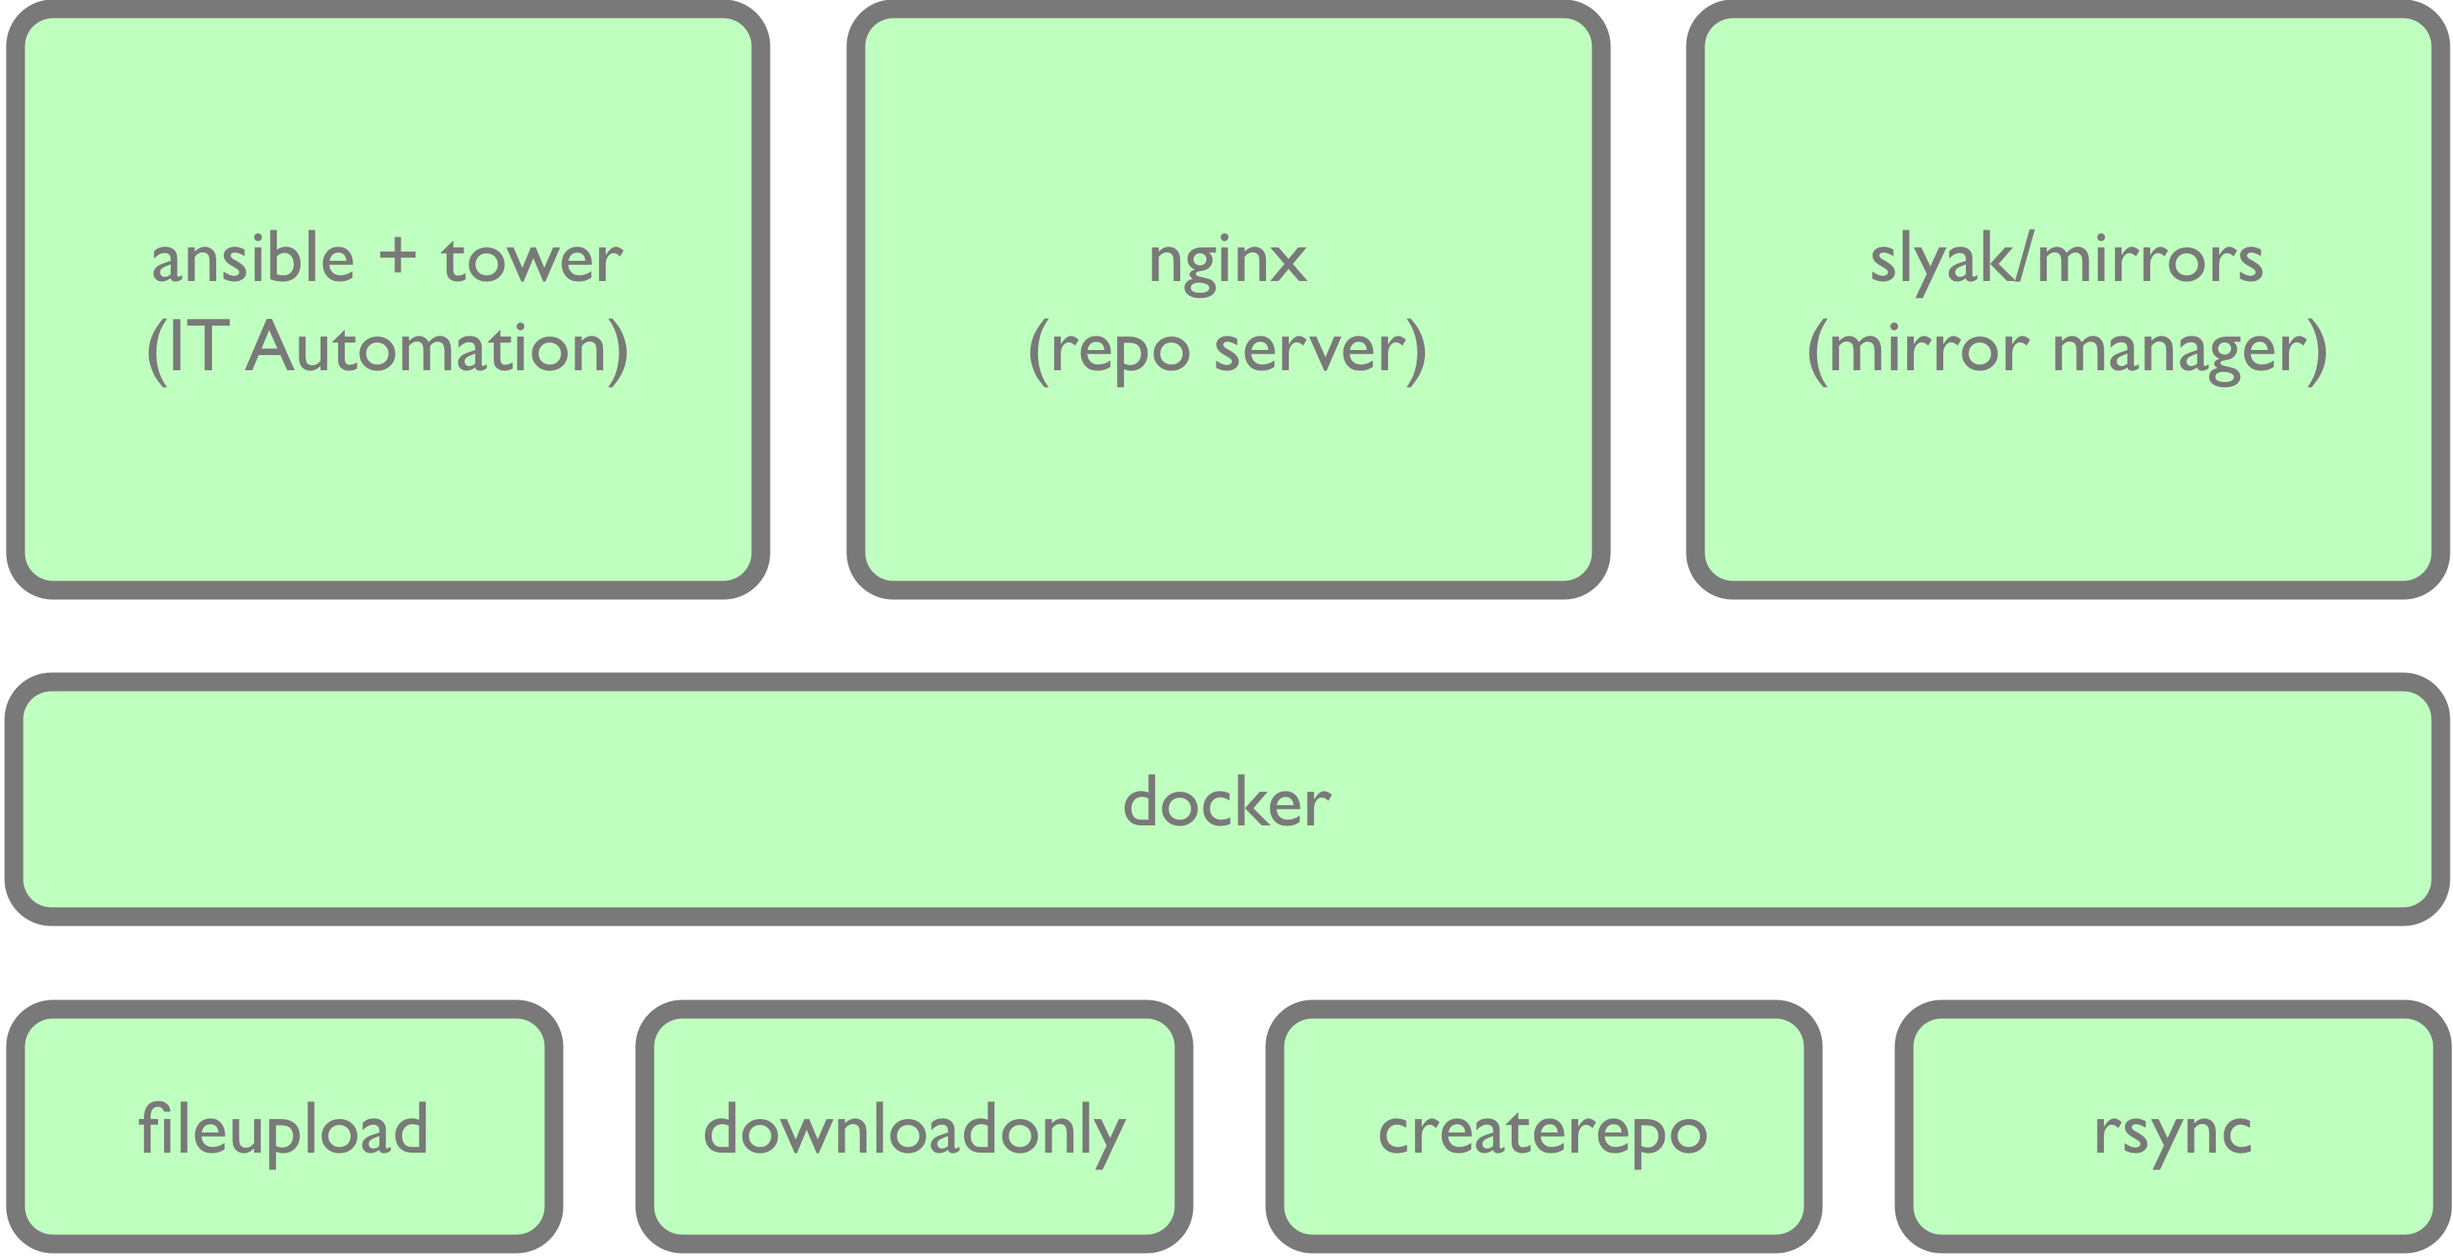
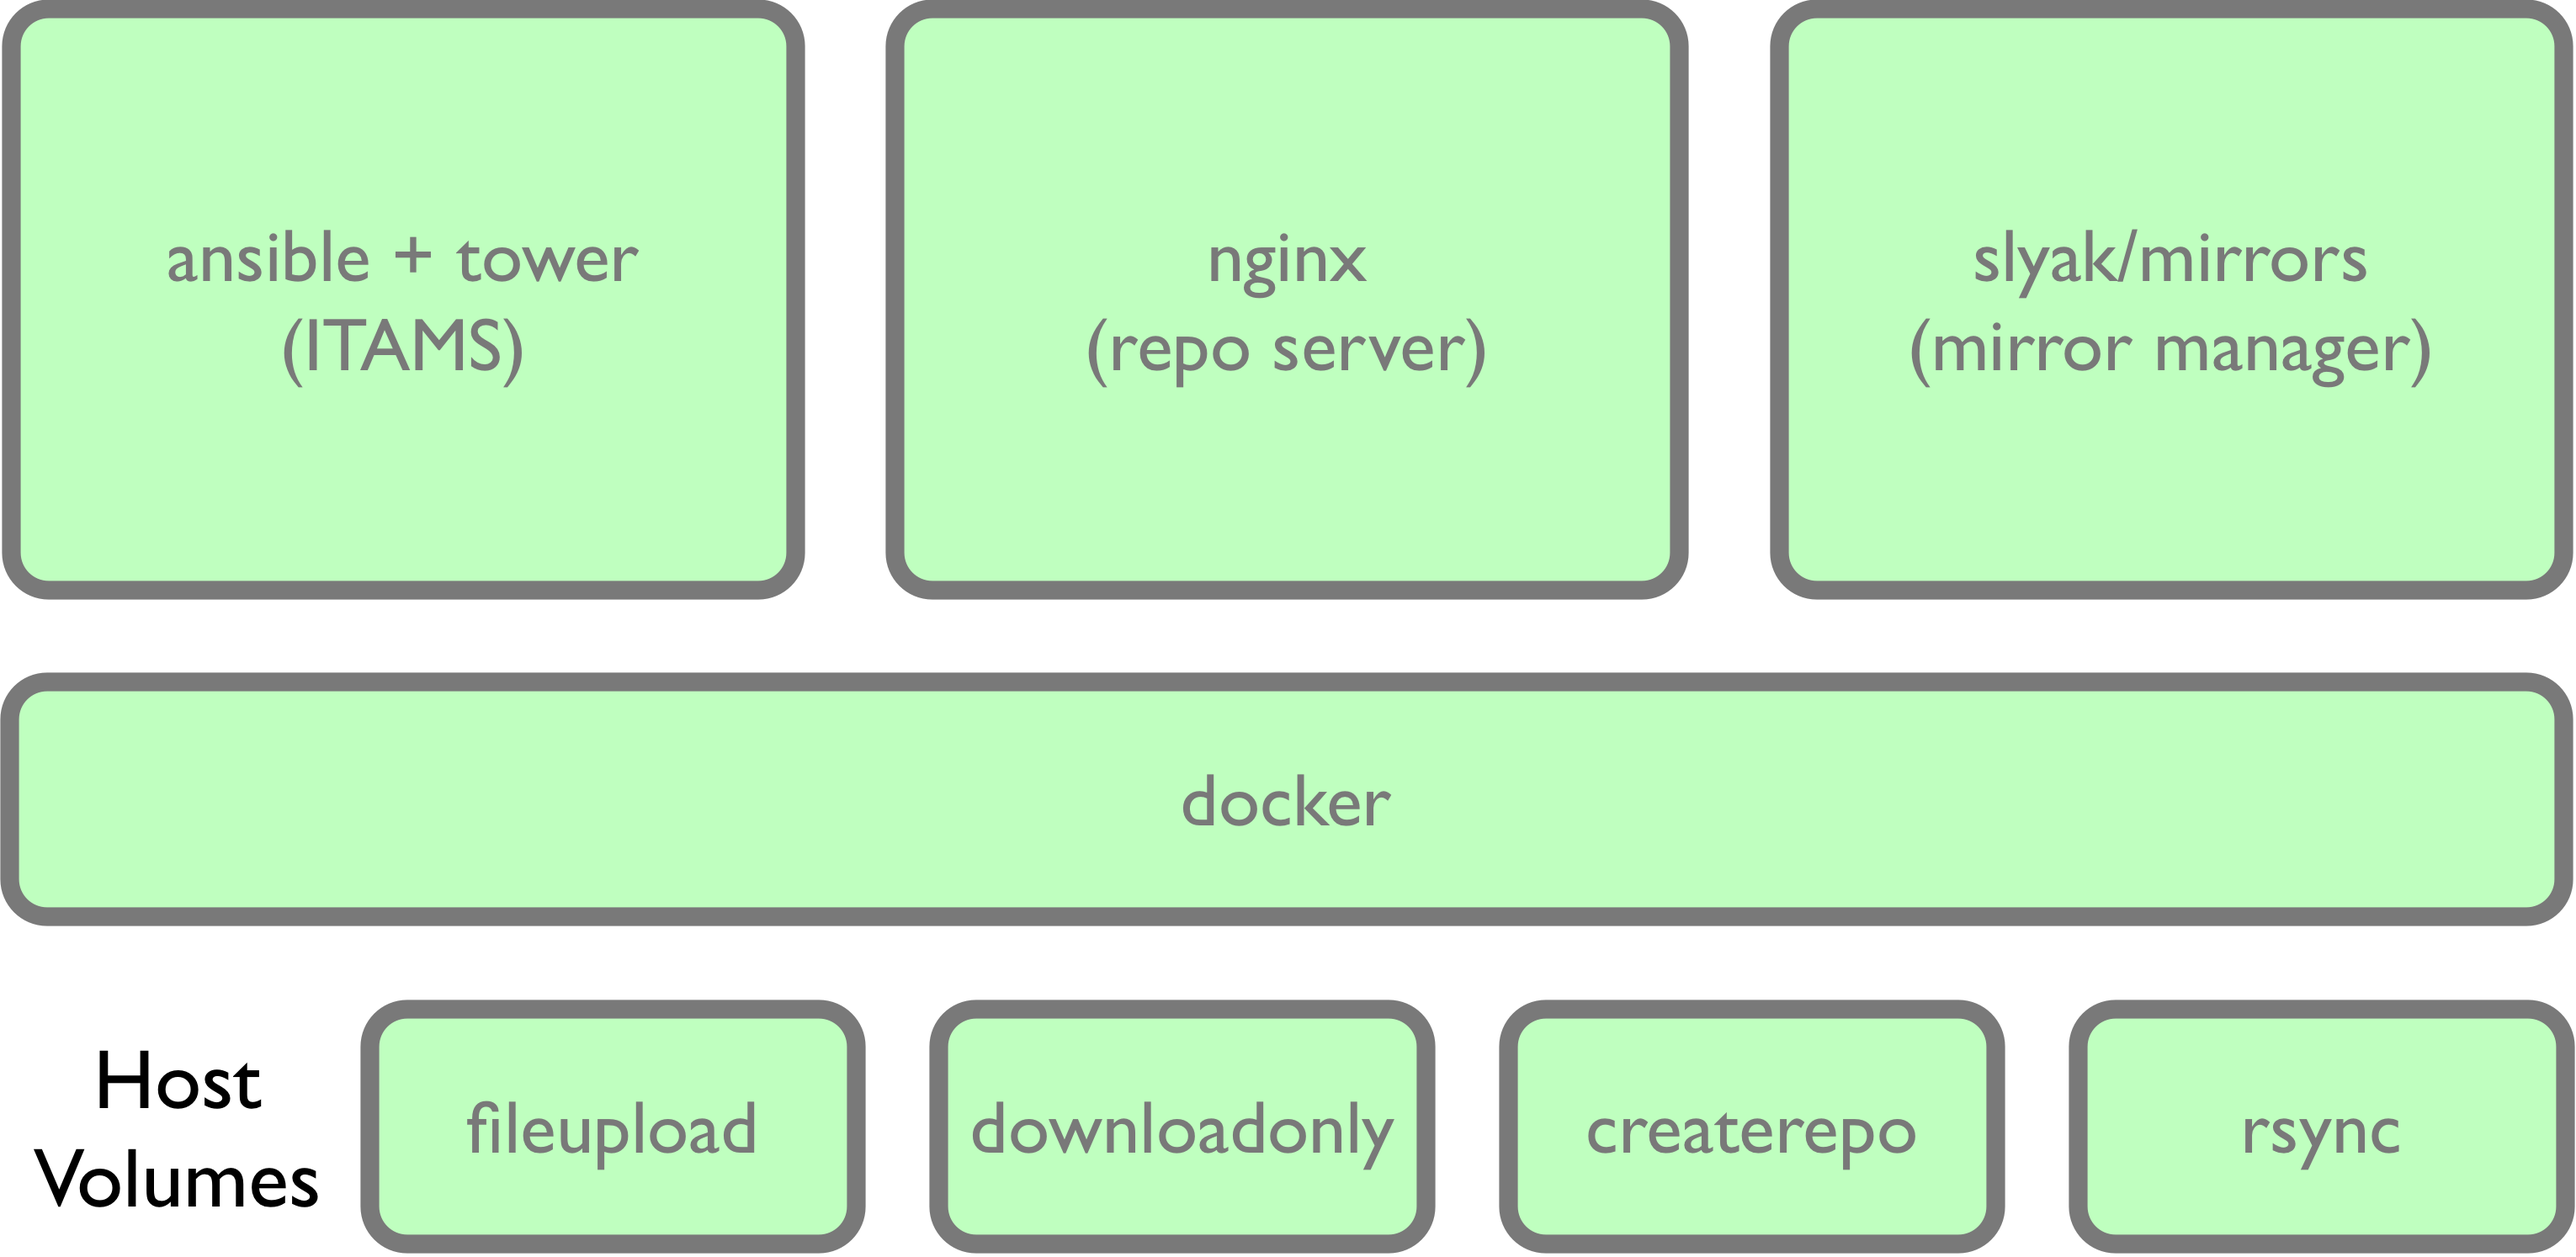
centos-repo

diff --git a/source/_posts/centos-repo.md b/source/_posts/centos-repo.md
@@ -1,5 +1,5 @@
 ---
-title: CentOS 离线环境准备
+title: 基于centos的软件自助安装服务器
 date: 2018-04-13 14:57
 tags: [centos,离线安装,镜像]
 categories: [运维,DevOps]
